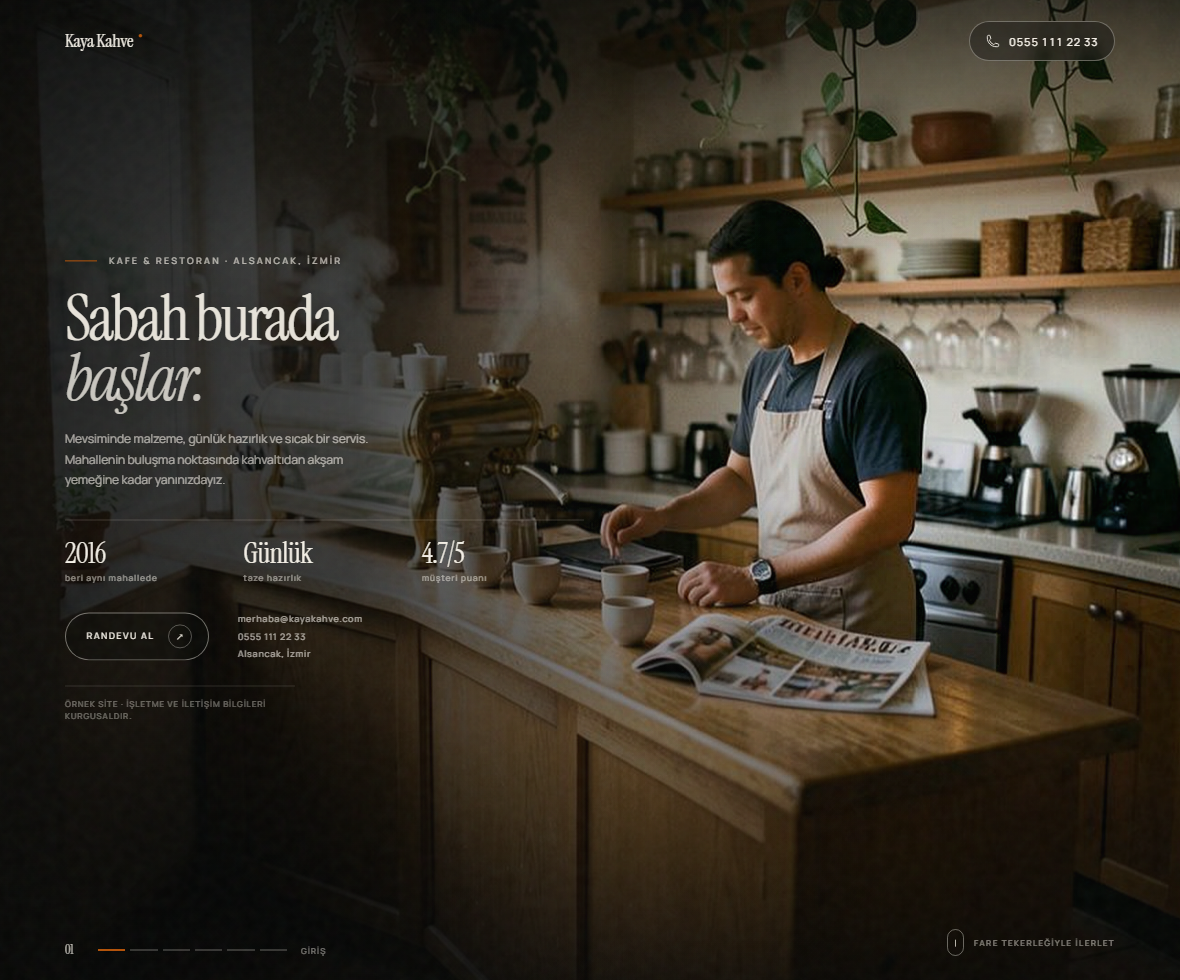
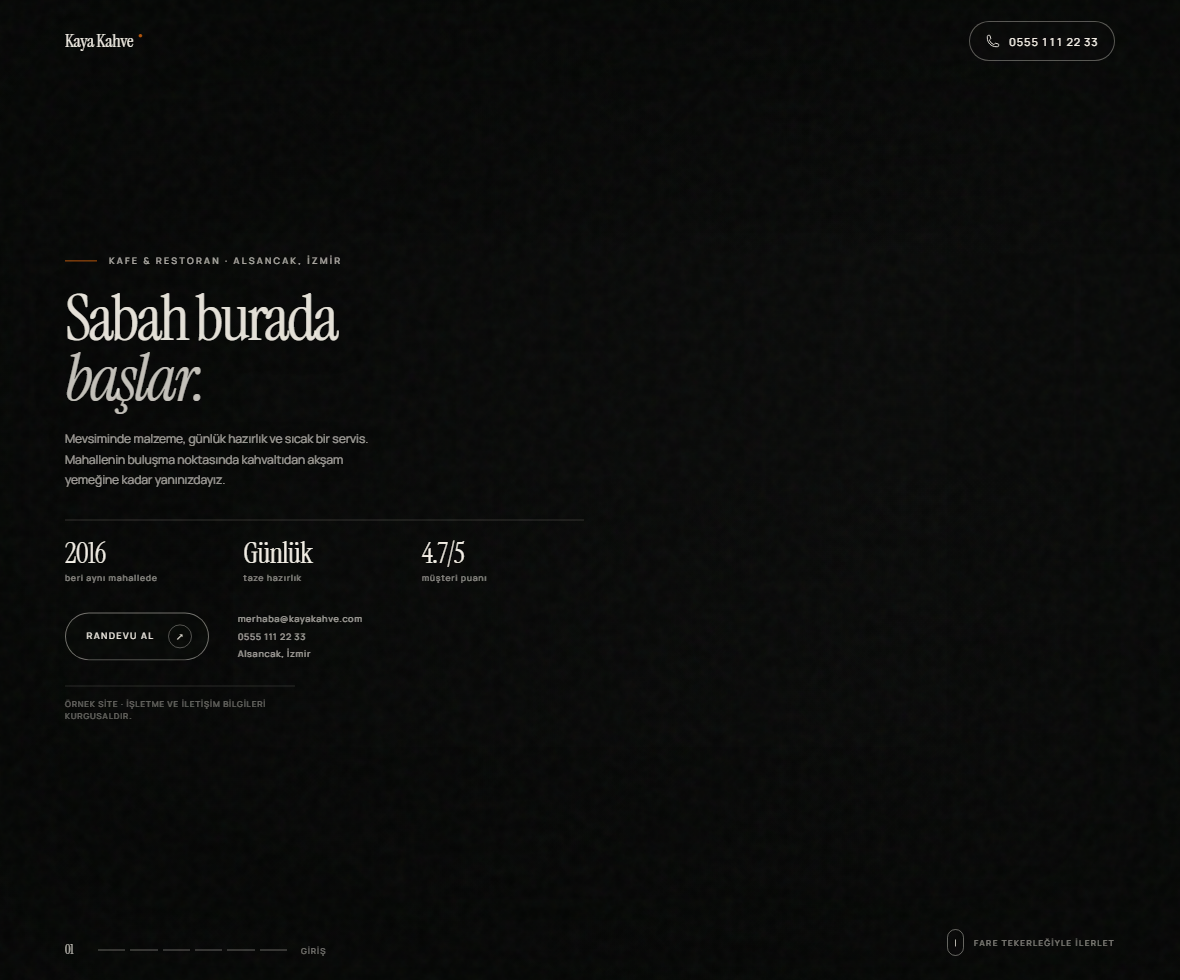
Kafe demosunu altı kareli sinematik geçişe taşı
Sektör filmi şablonu artık üç fotoğraf yerine altı ilişkili kare kullanıyor;
geçişler odak kaydırmalı eriyiş ve ışık süpürmesiyle video gibi akıyor.

diff --git a/kaya-kahve/index.html b/kaya-kahve/index.html
@@ -9,6 +9,7 @@
 <meta name="theme-color" content="#0a0b0a">
 <link rel="preload" as="font" type="font/woff2" href="fonts/instrument-serif-400.woff2" crossorigin>
 <link rel="preload" as="image" href="art/1.jpg">
+<link rel="preload" as="image" href="art/2.jpg">
 <style>
 /* ——— 01 · Fontlar ——— */
 @font-face{font-family:'Instrument Serif';src:url('fonts/instrument-serif-400.woff2') format('woff2');font-weight:400;font-style:normal;font-display:swap;unicode-range:U+0000-00FF,U+0131,U+0152-0153,U+02BB-02BC,U+02C6,U+02DA,U+02DC,U+0304,U+0308,U+0329,U+2000-206F,U+20AC,U+2122,U+2191,U+2193,U+2212,U+2215,U+FEFF,U+FFFD}
@@ -30,7 +31,7 @@
   --kenar:clamp(24px,5.5vw,92px);
   --ust:82px;
   /* Tek karenin ekranda kalma süresi; JS aynı değeri okur. */
-  --vurus:4000ms;
+  --vurus:5000ms;
 }
 *,*::before,*::after{box-sizing:border-box}
 html,body{height:100%}
@@ -73,29 +74,44 @@ html:not(.js) .reklam{display:none}
 
 /* ——— 05 · Tek bölüm: tam ekran film sahnesi ——— */
 .film{position:fixed;inset:0;height:100vh;height:100svh;overflow:hidden;isolation:isolate;background:var(--zemin)}
-.kareler{position:absolute;inset:0;z-index:0;background:var(--zemin)}
-/* Her kare tek sahnenin bir anı: aynı mekân, aynı ışık. Geçiş, kare
-   değiştirmek gibi değil, kameranın devam etmesi gibi okunur. */
-.kare{position:absolute;inset:0;margin:0;opacity:0;visibility:hidden;transition:opacity 1.35s var(--ease-yavas),visibility 1.35s;will-change:opacity;backface-visibility:hidden}
-.kare.on{opacity:1;visibility:visible}
-.kare img{width:100%;height:100%;object-fit:cover;object-position:var(--odak,50% 50%);transform:scale(var(--b,1.03));filter:saturate(.97) contrast(1.03)}
-.kare.on img{animation:kamera var(--kamera,9s) linear both}
-@keyframes kamera{0%{transform:scale(var(--b,1.03)) translate3d(0,0,0)}100%{transform:scale(calc(var(--b,1.03) + .085)) translate3d(0,-1.1%,0)}}
-/* Kamera açıları: fotoğraflar aynı sahne olduğu için kadraj kayması
-   kesme değil, kaydırma hissi verir. */
-.kam-a{--odak:50% 50%;--b:1.02}
-.kam-b{--odak:57% 44%;--b:1.09}
-.kam-c{--odak:45% 58%;--b:1.05}
+/* Sahne durmaz: bütün kare yığını kırk saniyede bir nefes alır. Bu, fotoğraf
+   dizisi değil el kamerası hissi verir. */
+.kareler{position:absolute;inset:0;z-index:0;background:var(--zemin);overflow:hidden;animation:nefes 38s ease-in-out infinite alternate}
+@keyframes nefes{0%{transform:scale(1) translate3d(0,0,0)}100%{transform:scale(1.018) translate3d(0,-.5%,0)}}
+/* Her kare tek sahnenin bir anı. Geçişte gelen kare bulanık ve bir tık büyük
+   başlar, eriyişin içinde odağa oturur: kesme değil, kamera devamı. */
+.kare{position:absolute;inset:0;margin:0;opacity:0;visibility:hidden;transform:scale(1.045);filter:blur(14px) brightness(1.1) saturate(.9);transition:opacity 1.2s var(--ease-yavas),visibility 1.2s,transform 1.7s var(--ease-yavas),filter 1.7s var(--ease-yavas);will-change:opacity,filter,transform;backface-visibility:hidden}
+.kare.on{opacity:1;visibility:visible;transform:scale(1);filter:blur(0) brightness(1) saturate(1)}
+.kare img{width:100%;height:100%;object-fit:cover;object-position:var(--odak,50% 50%);transform:scale(var(--s1,1.06)) translate3d(var(--x1,0),var(--y1,0),0);filter:saturate(.98) contrast(1.04)}
+/* Giden kare eriyiş boyunca hareketine devam eder; ani sıçrama olmaz. */
+.kare.on img,.kare.giden img{animation:kamera var(--kamera,13s) linear both}
+@keyframes kamera{
+  0%{transform:scale(var(--s1,1.06)) translate3d(var(--x1,0),var(--y1,0),0)}
+  100%{transform:scale(var(--s2,1.14)) translate3d(var(--x2,0),var(--y2,0),0)}}
+/* Altı kare, altı kamera hareketi: biri içeri, biri geri, biri yana kayar.
+   Yön her karede değiştiği için göz tek bir çekim izler gibi okur. */
+.kam-a{--odak:50% 48%;--s1:1.05;--s2:1.15;--x1:0;--y1:0;--x2:-1.2%;--y2:-1.4%}
+.kam-b{--odak:57% 45%;--s1:1.14;--s2:1.04;--x1:1.3%;--y1:-.4%;--x2:-1.1%;--y2:.6%}
+.kam-c{--odak:44% 55%;--s1:1.04;--s2:1.14;--x1:-1.3%;--y1:.7%;--x2:1.2%;--y2:-1%}
+.kam-d{--odak:52% 60%;--s1:1.12;--s2:1.03;--x1:.5%;--y1:1.6%;--x2:-1.2%;--y2:-.5%}
+.kam-e{--odak:47% 42%;--s1:1.03;--s2:1.13;--x1:-1.6%;--y1:-.5%;--x2:1.1%;--y2:1.2%}
+.kam-f{--odak:50% 52%;--s1:1.13;--s2:1.04;--x1:1.1%;--y1:-1.5%;--x2:-1.3%;--y2:1%}
 
 /* Yazının okunması için sahnenin üstünde yumuşak perde. */
 .film::before{content:'';position:absolute;inset:0;z-index:1;pointer-events:none;background:
   linear-gradient(90deg,rgba(7,8,7,.9) 0%,rgba(7,8,7,.76) 30%,rgba(7,8,7,.32) 54%,rgba(7,8,7,.03) 76%,transparent 92%),
   linear-gradient(0deg,rgba(7,8,7,.86) 0%,rgba(7,8,7,.28) 26%,transparent 52%),
   linear-gradient(180deg,rgba(7,8,7,.72) 0%,transparent 26%)}
-/* Kesme anında bir karelik ışık: film geçişi hissi. */
-.vurus{position:absolute;inset:0;z-index:2;pointer-events:none;opacity:0;background:radial-gradient(ellipse at 62% 46%,color-mix(in srgb,var(--vurgu) 24%,transparent),transparent 62%);mix-blend-mode:screen}
-.vurus.yan{animation:vurus .52s var(--ease) both}
+/* Kesme anında bir karelik ışık ve geçişi takip eden ışık süpürmesi:
+   profesyonel film geçişlerinde görülen lens parlaması. */
+.vurus{position:absolute;inset:0;z-index:2;pointer-events:none;opacity:0;background:radial-gradient(ellipse at 62% 46%,color-mix(in srgb,var(--vurgu) 22%,transparent),transparent 62%);mix-blend-mode:screen}
+.vurus.yan{animation:vurus .62s var(--ease) both}
 @keyframes vurus{0%{opacity:.5}100%{opacity:0}}
+.isik{position:absolute;inset:-14% -48%;z-index:3;pointer-events:none;opacity:0;mix-blend-mode:screen;background:linear-gradient(104deg,transparent 42%,rgba(255,248,235,.10) 47%,rgba(255,255,255,.28) 50%,rgba(255,248,235,.10) 53%,transparent 58%)}
+.isik.ak{animation:akis 1.7s cubic-bezier(.33,0,.2,1) both}
+@keyframes akis{0%{opacity:0;transform:translate3d(-54%,0,0) rotate(2deg)}14%{opacity:.85}72%{opacity:.5}100%{opacity:0;transform:translate3d(54%,0,0) rotate(2deg)}}
+/* Kenarlarda sinema vinyeti: sahneyi bir perde gibi kapatır. */
+.film::after{content:'';position:absolute;inset:0;z-index:3;pointer-events:none;box-shadow:inset 0 0 clamp(90px,15vw,220px) clamp(8px,1.8vw,36px) rgba(6,7,6,.55)}
 
 /* Üst şerit: her karede işletme adı ve telefon düğmesi */
 .ust{position:absolute;z-index:10;top:0;left:0;right:0;height:var(--ust);padding:0 var(--kenar);display:flex;align-items:center;justify-content:space-between;gap:clamp(12px,2vw,24px);pointer-events:none}
@@ -201,13 +217,14 @@ html:not(.js) .ipucu{display:none}
 
   <div class="kareler" aria-hidden="true">
     <figure class="kare kam-a" data-i="1" aria-hidden="true"><img src="art/1.jpg" alt="" decoding="async"></figure>
-    <figure class="kare kam-b" data-i="2" aria-hidden="true"><img src="art/1.jpg" alt="" decoding="async"></figure>
-    <figure class="kare kam-a" data-i="3" aria-hidden="true"><img src="art/2.jpg" alt="" decoding="async"></figure>
-    <figure class="kare kam-c" data-i="4" aria-hidden="true"><img src="art/2.jpg" alt="" decoding="async"></figure>
-    <figure class="kare kam-a" data-i="5" aria-hidden="true"><img src="art/3.jpg" alt="" decoding="async"></figure>
-    <figure class="kare kam-b" data-i="6" aria-hidden="true"><img src="art/3.jpg" alt="" decoding="async"></figure>
+    <figure class="kare kam-b" data-i="2" aria-hidden="true"><img src="art/2.jpg" alt="" decoding="async"></figure>
+    <figure class="kare kam-c" data-i="3" aria-hidden="true"><img src="art/3.jpg" alt="" decoding="async"></figure>
+    <figure class="kare kam-d" data-i="4" aria-hidden="true"><img src="art/4.jpg" alt="" decoding="async"></figure>
+    <figure class="kare kam-e" data-i="5" aria-hidden="true"><img src="art/5.jpg" alt="" decoding="async"></figure>
+    <figure class="kare kam-f" data-i="6" aria-hidden="true"><img src="art/6.jpg" alt="" decoding="async"></figure>
   </div>
   <div class="vurus" id="vurus" aria-hidden="true"></div>
+  <div class="isik" id="isik" aria-hidden="true"></div>
 
   <header class="ust">
     <span class="marka">Kaya Kahve<i>●</i></span>
@@ -252,6 +269,7 @@ html:not(.js) .ipucu{display:none}
   var ipucuYazi=document.querySelector('.ipucu-yazi');
   var durum=document.getElementById('durum');
   var vurus=document.getElementById('vurus');
+  var isik=document.getElementById('isik');
   var ADLAR=["Giriş","Kahvaltı","Öğle menüsü","Özel davetler","Kayıt","Davet"];
   var SON=kareler.length, adim=0, kilit=false, tanitim=true, birikim=0, zaman=null;
   var SURE=parseInt(getComputedStyle(document.documentElement).getPropertyValue('--vurus'),10)||4000;
@@ -281,18 +299,27 @@ html:not(.js) .ipucu{display:none}
     vurus.classList.remove('yan');
     void vurus.offsetWidth;
     vurus.classList.add('yan');
+    isik.classList.remove('ak');
+    void isik.offsetWidth;
+    isik.classList.add('ak');
   }
 
   function git(hedef,tikla){
     if(kilit) return;
     hedef=(hedef+SON)%SON;
     if(hedef===adim) return;
+    var eski=kareler[adim];
+    /* Giden kare kamerayı bırakmaz: eriyiş bitene kadar hareketine devam eder. */
+    if(eski && eski!==kareler[hedef]){
+      eski.classList.add('giden');
+      window.setTimeout(function(){eski.classList.remove('giden');},1700);
+    }
     adim=hedef;
     kilit=true;
     govde.classList.add('gezindi');
     ciz();
     vur();
-    window.setTimeout(function(){kilit=false;},620);
+    window.setTimeout(function(){kilit=false;},820);
     if(tikla) bekle();
   }
 
